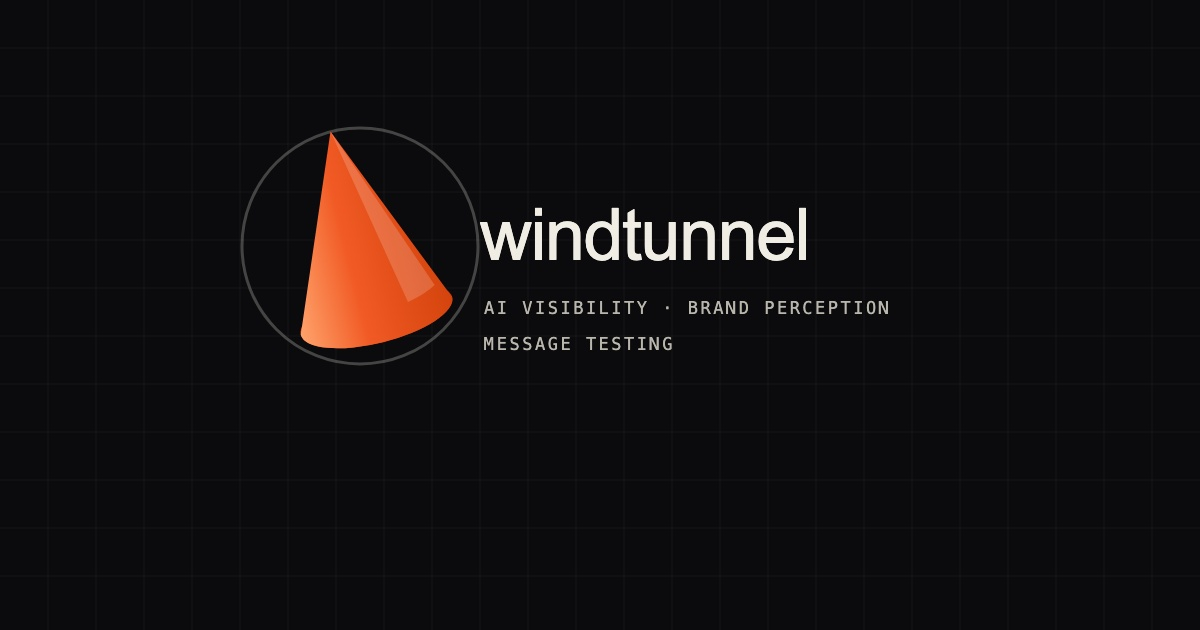
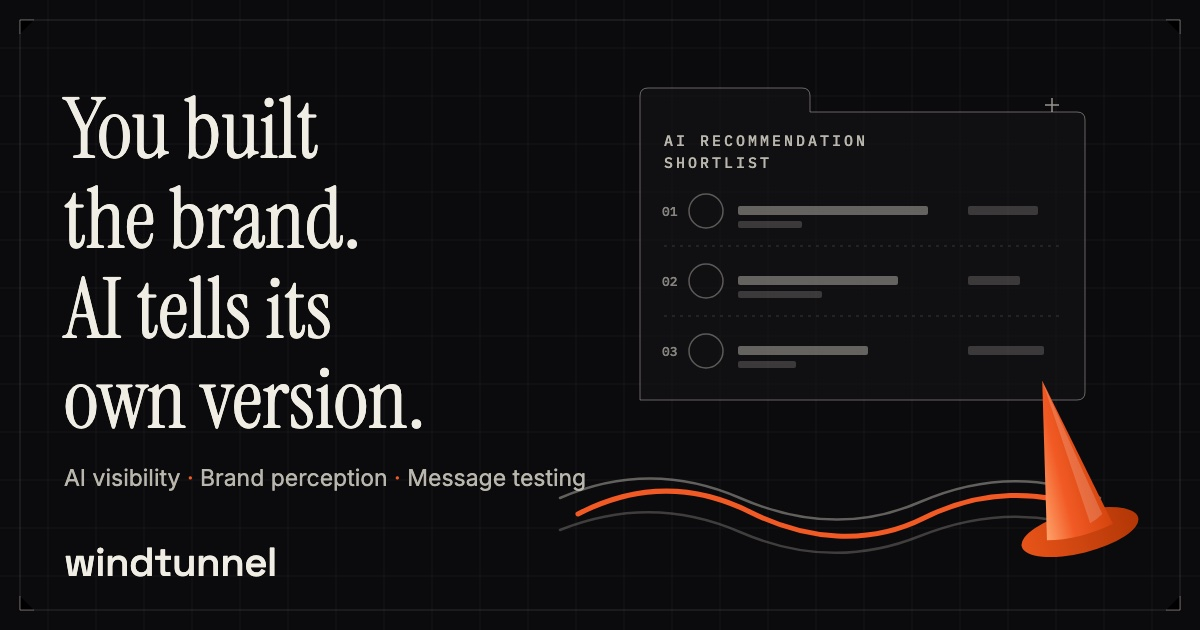
M57 P1a: rebuild og.jpg social card with the Windtunnel design; sync og/twitter descriptions

diff --git a/site/index.html b/site/index.html
@@ -7,12 +7,12 @@
 <meta name="description" content="AI visibility measurement and message testing. We measure how AI recommends your brand, then test which message moves you up its shortlist.">
 <link rel="canonical" href="https://windtunnel.observer/">
 <meta property="og:title" content="Measure how AI recommends your brand. Test which message moves you up its shortlist.">
-<meta property="og:description" content="We measure how AI ranks and describes your brand, then test which message lifts your shortlist and top-choice rates.">
+<meta property="og:description" content="We measure how AI recommends your brand, then test which message moves you up its shortlist.">
 <meta property="og:type" content="website">
 <meta property="og:image" content="https://windtunnel.observer/og.jpg">
 <meta name="twitter:card" content="summary_large_image">
 <meta name="twitter:title" content="Measure how AI recommends your brand. Test which message moves you up its shortlist.">
-<meta name="twitter:description" content="We measure how AI ranks and describes your brand, then test which message lifts your shortlist and top-choice rates.">
+<meta name="twitter:description" content="We measure how AI recommends your brand, then test which message moves you up its shortlist.">
 <meta name="twitter:image" content="https://windtunnel.observer/og.jpg">
 <link rel="icon" href="/favicon.svg" type="image/svg+xml">
 <link rel="preconnect" href="https://fonts.googleapis.com">

diff --git a/BRAND_SITE_GUIDE.md b/BRAND_SITE_GUIDE.md
@@ -560,7 +560,10 @@ autoplaying video, no cursor followers, no magnetic buttons, no text scramble.
   AI recommends your brand"; study pages: "<Brand> study · Windtunnel"),
   a description under 155 chars in the same voice, a `<link rel="canonical">`,
   and absolute `og:image` / `twitter:image` URLs (`site/og.jpg`, 1200x630,
-  rendered from `og.svg`). Absolute URLs come from the `__SITE_URL__` stamp;
+  rendered from `og.svg`; render with the brand webfonts supplied, e.g.
+  headless Chrome against an HTML wrapper that loads the Google Fonts
+  stylesheet for Instrument Serif, Space Grotesk, IBM Plex Mono, and Inter,
+  so the wordmark and headline do not fall back). Absolute URLs come from the `__SITE_URL__` stamp;
   after a domain change re-run `scripts/set-site-domain.sh` and resubmit
   `sitemap.xml` in Search Console so the same-host URLs are read. `404.html`
   carries `<meta name="robots" content="noindex">`.
